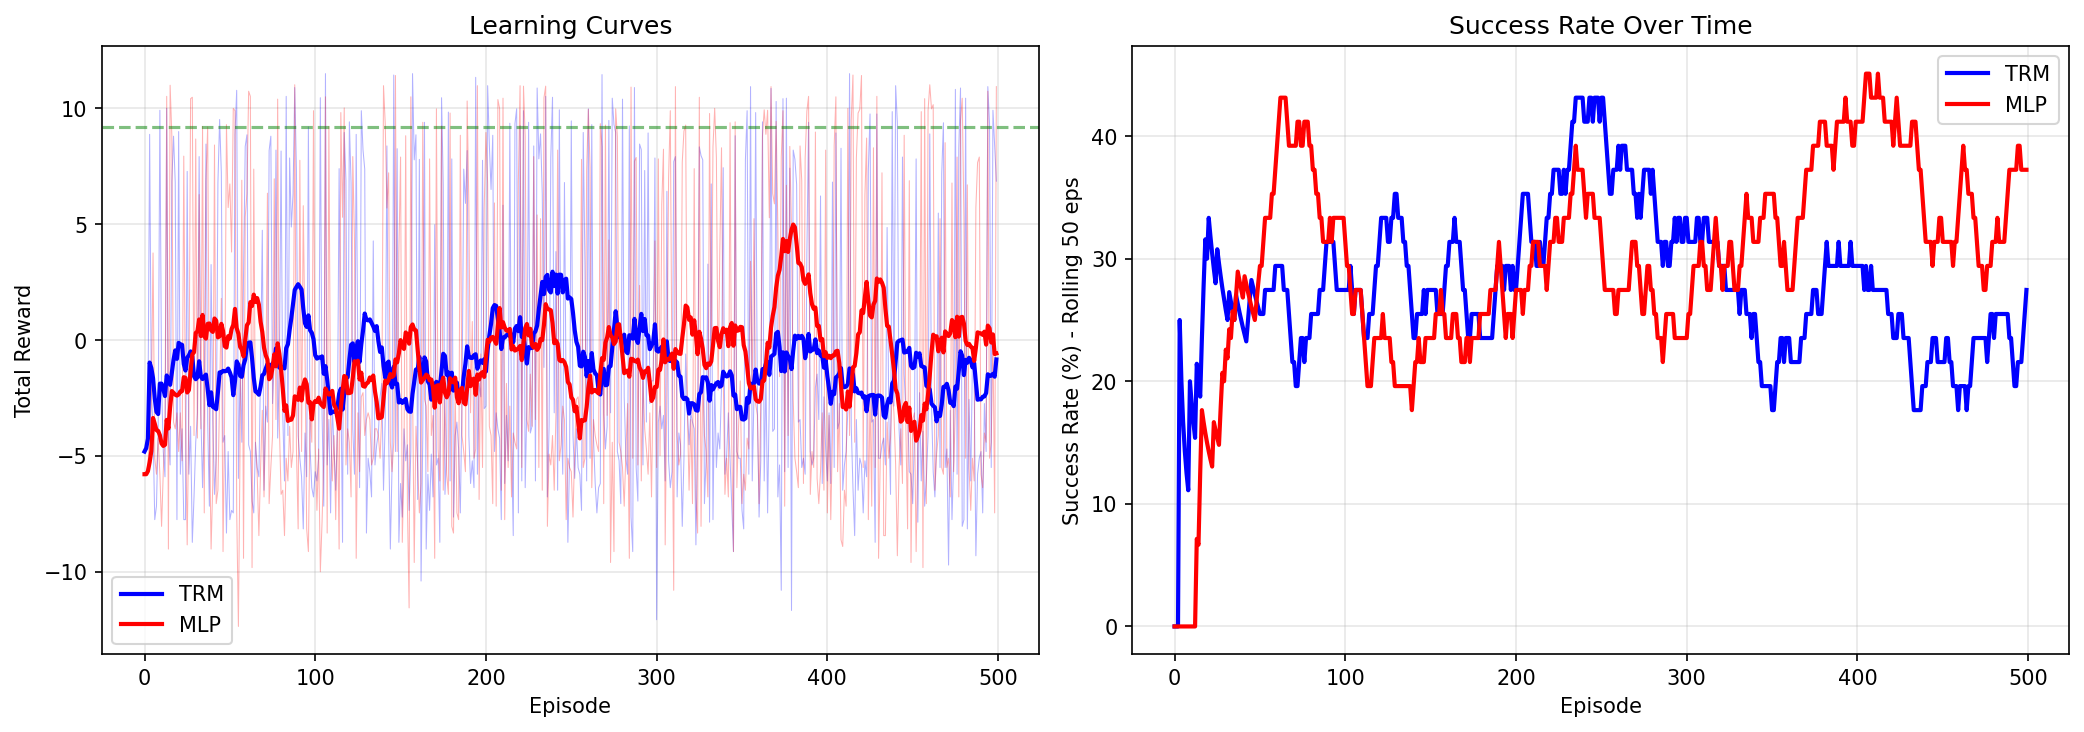
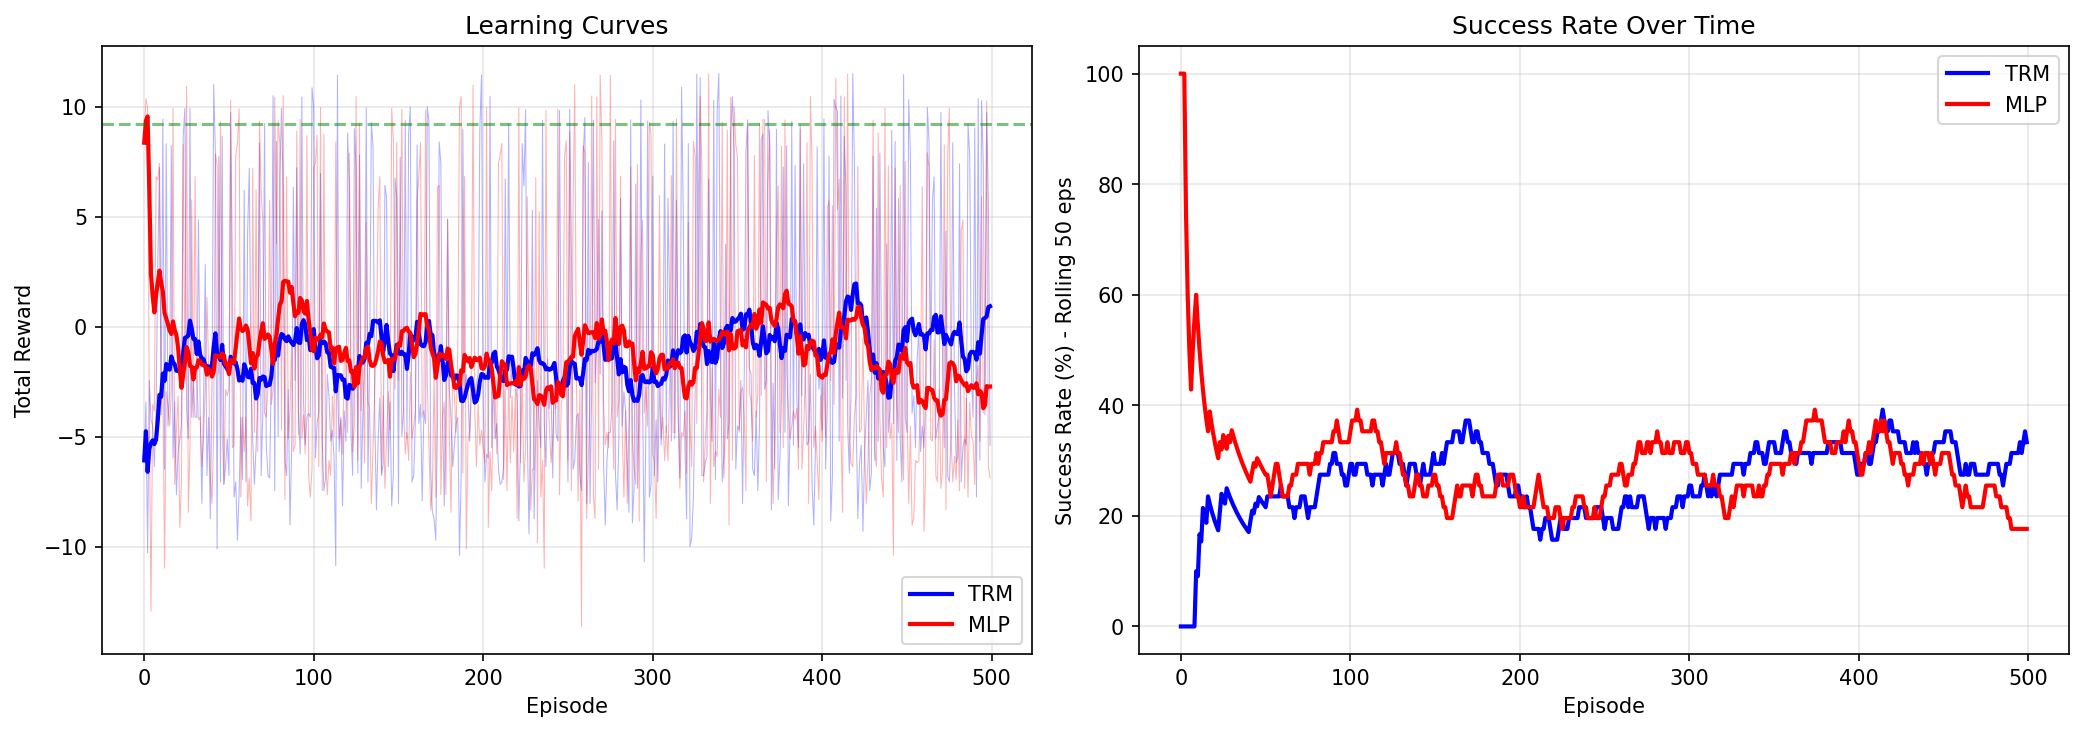
Updating naming, evaluation results

diff --git a/README.md b/README.md
@@ -14,7 +14,7 @@ a recurrent reasoning model designed for structured decision-making and temporal
 | Learn TRM basics       | trm.py                                                | ✅ Basic       |
 | Debug RL setup         | trm_rl_debug.py                                       | ✅ Stable      |
 | Run RL experiments     | trm_rl_improved.py, trm_rl_optimized_updated_sudoku   | ✅✅ Improved   |
-| Paper-level TRM        | trm_rl_paper_implementation.py                        | ⭐ Recommended |
+| Paper-level TRM        | trm_rl.py                        | ⭐ Recommended |
 | Compare baselines      | maze_comparison.py                                    | ✅ Done  
 
 
@@ -30,7 +30,7 @@ This repository includes multiple versions for different stages of experimentati
 | Basic          | trm.py                       | Minimal TRM on toy datasets |
 | Intermediate   | trm_rl_evns.py               | TRM adapted for RL (Maze, Sudoku) |
 | Improved       | trm_rl_improved.py, trm_rl_optimized_updated_sudoku           | Adds shaped rewards, entropy bonus, gradient clipping |
-| Full (Paper)   | trm_rl_paper_implementation.py | Hierarchical TRM with K-cycles, carry, SwiGLU |
+| Full (Paper)   | trm_rl.py | Hierarchical TRM with K-cycles, carry, SwiGLU |
 | Debug          | trm_rl_debug.py              | Diagnostic tools and failure analysis |
 
 ## 2. FOLDER STRUCTURE
@@ -42,12 +42,12 @@ Tiny Recursive Model/
 ├── trm_core/
 │   ├── README_TRM_PAPER.md
 │   ├── trm.py
+│   ├── trm_rl.py
 │   ├── trm_rl_debug.py
 │   ├── trm_rl_evns.py
 │   ├── trm_rl_improved.py
 │   ├── trm_rl_optimized.py
 │   ├── trm_rl_optimzed_updated_sudoku.py
-│   ├── trm_rl_paper_implementation.py
 │   └── utils/
 │       └── improved_sudoku_env.py
 ├── experiments/
@@ -73,8 +73,8 @@ Clone the repository and install dependencies:
 Step 1: Run a debug check
     python trm_core/trm_rl_debug.py
 
-Step 2: Train the full TRM (Paper Implementation)
-    python trm_core/trm_rl_paper_implementation.py
+Step 2: Train the full TRM (Paper Implementation) with RL
+    python trm_core/trm_rl.py
 
 This will:
 - Train TRM with K=3 and K=5 recursive cycles
@@ -90,7 +90,7 @@ State → Embed → [Inner Steps × (Tiny Net)] → Head → Logits
                  ↑____ y_embed feedback ______|
 ```
 
-### Paper TRM (paper_implementation)
+### Paper TRM RL
 ```
 State → Embed → H-Level → L-Level → Feedback ┐
                    ↑_______carry_______________|
@@ -111,7 +111,7 @@ Key Features:
 
 ### For Maze (5×5)
 ```python
-# trm_rl_paper_implementation.py
+# trm_rl.py
 TRMPolicy(
     h_dim=64,
     l_dim=32,
@@ -148,10 +148,10 @@ n_episodes = 1000
 
 | Implementation | Typical Success Rate | Training Speed |
 |----------------|---------------------|----------------|
-| trm_rl_evns.py | ~20-30% | Medium |
-| trm_rl_improved.py | ~70-80% | Medium |
-| **trm_rl_paper_implementation.py** | **~85-90%** | Slower (K cycles) |
-| MLP Baseline | ~60-70% | Fast |
+| trm_rl_evns.py | ~0-10% | Medium |
+| trm_rl_improved.py | ~20-30% | Medium |
+| **trm_rl.py** | **~30-40%** | Slower (K cycles) [Maze]|
+| MLP Baseline | ~20-30% | Fast |
 
 
 ## 8. RESEARCH DIRECTIONS
